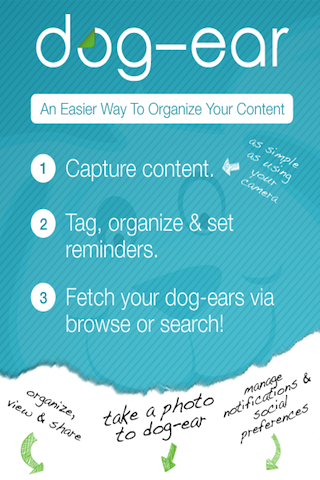
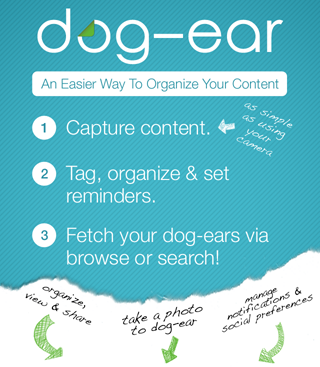
- AlertView - okay; background fix

diff --git a/DogEar/Classes/ViewControllers/de_PhotoViewController.m b/DogEar/Classes/ViewControllers/de_PhotoViewController.m
@@ -63,6 +63,8 @@ int currentAngle = 0;
 	UIImageView * ivRightUp ;
 	UIImageView * ivleftDown ;
 	UIImageView * ivRightDown;
+    
+    UILabel * autoEnhanceLabel;
 }
 //@property (nonatomic) BKToolBarType bkToolBarType;
 @property (nonatomic , retain) UIImage * photo;
@@ -169,11 +171,11 @@ int currentAngle = 0;
     {
         isAutoEnhance = NO;
         
-        UIBarButtonItem * rotateItem = [[UIBarButtonItem alloc]initWithTitle:@"Rotate" style:UIBarButtonItemStyleBordered target:self action:@selector(rotateLeft)];
+        UIBarButtonItem * rotateItem = [[UIBarButtonItem alloc]initWithImage:[UIImage imageNamed:@"dogear-icon-rotate"]  style:UIBarButtonItemStyleBordered target:self action:@selector(rotateLeft)];
         //        UIBarButtonItem * enhanceItem = [[UIBarButtonItem alloc]initWithTitle:@"Enhance" style:UIBarButtonItemStyleBordered target:self action:@selector(autoEnhance)];
-        UIBarButtonItem * enhanceItem = [[UIBarButtonItem alloc]initWithTitle:[NSString stringWithFormat:@"Ehance:%@",isAutoEnhance?@"YES":@"NO"] style:UIBarButtonItemStyleBordered target:self action:@selector(autoEnhance:)];
+        UIBarButtonItem * enhanceItem = [[UIBarButtonItem alloc]initWithImage:[UIImage imageNamed:@"dogear-icon-enhance"] style:UIBarButtonItemStyleBordered target:self action:@selector(autoEnhance:)];
         
-        UIBarButtonItem * cropItem = [[UIBarButtonItem alloc]initWithTitle:@"Crop" style:UIBarButtonItemStyleBordered target:self action:@selector(cropPhoto)];
+        UIBarButtonItem * cropItem = [[UIBarButtonItem alloc]initWithImage:[UIImage imageNamed:@"dogear-icon-crop"]  style:UIBarButtonItemStyleBordered target:self action:@selector(cropPhoto)];
         
         [toolBar setItems:[NSArray arrayWithObjects:rotateItem, spaceItme, enhanceItem, spaceItme, cropItem, nil]];
         
@@ -198,7 +200,7 @@ int currentAngle = 0;
         UIBarButtonItem * cancelItem = [[UIBarButtonItem alloc]initWithTitle:@"Back" style:UIBarButtonItemStyleBordered target:self action:@selector(backToList)];
         self.navigationItem.leftBarButtonItem = cancelItem;
         
-        UIBarButtonItem * detailItem = [[UIBarButtonItem alloc]initWithTitle:@"Detail" style:UIBarButtonItemStyleBordered target:self action:@selector(moreDetail)];
+        UIBarButtonItem * detailItem = [[UIBarButtonItem alloc]initWithTitle:@"Details" style:UIBarButtonItemStyleBordered target:self action:@selector(moreDetail)];
         self.navigationItem.rightBarButtonItem = detailItem;
         self.navigationItem.title = self.existingDogEar.title;
     }
@@ -265,8 +267,8 @@ int currentAngle = 0;
 
 - (void) backToList
 {
-//    if ([self.navigationController.viewControllers count]>3)
-//    {
+    if ([self.navigationController.viewControllers count]>=3)
+    {
         de_ListTableViewController * vc = (de_ListTableViewController*)[self.navigationController.viewControllers objectAtIndex:[self.navigationController.viewControllers count]-2];
         de_ListTableViewController * previousVc = [self.navigationController.viewControllers objectAtIndex:[self.navigationController.viewControllers count]-3];
         NSArray * array = [[NSUserDefaults standardUserDefaults]objectForKey:@"BKFlaggedItems"];
@@ -275,8 +277,10 @@ int currentAngle = 0;
         else if ([previousVc isKindOfClass:[de_FlaggedListViewController class]])
             vc.navigationItem.title = [array objectAtIndex:[self.existingDogEar.flagged integerValue]];
         [self.navigationController popToViewController:vc animated:YES];
-//    }
-//    else [self.navigationController popToRootViewControllerAnimated:YES];
+    }
+    else [self.navigationController popToRootViewControllerAnimated:YES];
+    
+    NSLog(@"%i",[self.navigationController.viewControllers count]);
 }
 
 
@@ -291,34 +295,48 @@ int currentAngle = 0;
     NSLog(@"%i",currentAngle);
 
     UIImage * newImage = [self.photo imageRotatedByDegrees:currentAngle];
-//    if (currentAngle == -90)
-//        newImage = [[UIImage alloc] initWithCGImage:self.photo.CGImage scale:1 orientation:UIImageOrientationLeft];
-//    else if (currentAngle == -180)
-//        newImage = [[UIImage alloc] initWithCGImage:self.photo.CGImage scale:1 orientation:UIImageOrientationDown];
-//    else if (currentAngle == -270)
-//        newImage = [[UIImage alloc] initWithCGImage:self.photo.CGImage scale:1 orientation:UIImageOrientationRight];
-//    else
-//        newImage = [[UIImage alloc] initWithCGImage:self.photo.CGImage scale:1 orientation:UIImageOrientationUp];
     self.photo = newImage;
 }
 
 - (void) autoEnhance:(id)sender
 {
-    UIBarButtonItem * button = (UIBarButtonItem*)sender;
+//    UIBarButtonItem * button = (UIBarButtonItem*)sender;
     if (isAutoEnhance == NO)
     {
-        UIImage * originImage = imageView.image;
-        [imageView setImage:[originImage autoEnhance]];
+//        UIImage * originImage = imageView.image;
+        [imageView setImage:[[self.photo autoEnhance]imageRotatedByDegrees:-currentAngle]];
         isAutoEnhance = YES;
     }
     else
     {
-        [imageView setImage:self.photo];
+        [imageView setImage:[self.photo imageRotatedByDegrees:-currentAngle]];
         isAutoEnhance = NO;
     }
     [imageView setNeedsDisplay];
-    button.title = [NSString stringWithFormat:@"Enhance:%@",isAutoEnhance?@"YES":@"NO"];
 
+    
+    if (!autoEnhanceLabel)
+    {
+        autoEnhanceLabel = [[UILabel alloc]initWithFrame:CGRectMake(0.0f, 0.0f, 200.0f, 20.0f)];
+        CGRect bounds = [[UIScreen mainScreen]bounds];
+        NSInteger cameraActiveBarHeight;
+        cameraActiveBarHeight = 68.0f;
+        autoEnhanceLabel.frame = CGRectOffset(autoEnhanceLabel.frame, 0.0f, bounds.size.height - cameraActiveBarHeight - IPHONE_TOOL_BAR_HEIGHT - autoEnhanceLabel.frame.size.height);
+        autoEnhanceLabel.font = [UIFont fontWithName:@"HelveticaNeue-Bold" size:12];
+        autoEnhanceLabel.backgroundColor = [UIColor clearColor];
+        autoEnhanceLabel.textColor = [UIColor whiteColor];
+        
+        [self.view addSubview:autoEnhanceLabel];
+    }
+    autoEnhanceLabel.text = [NSString stringWithFormat:@"Auton Enhance:%@",isAutoEnhance?@"On":@"Off"];
+    autoEnhanceLabel.hidden = NO;
+    
+    [NSTimer scheduledTimerWithTimeInterval:2.5f target:self selector:@selector(dismissLabel) userInfo:nil repeats:NO];
+}
+
+- (void) dismissLabel
+{
+    autoEnhanceLabel.hidden = YES;
 }
 
 /******************************************************************************************/
@@ -349,7 +367,7 @@ int currentAngle = 0;
 //	[cropView addSubview:ivleftDown];
 //	[cropView addSubview:ivRightUp];
 //	[cropView addSubview:ivRightDown];
-    
+        
     cropView = [[NLImageCropperView alloc]initWithFrame:self.view.frame];
     [self.view addSubview:cropView];
     [cropView setImage:self.photo];
@@ -628,24 +646,54 @@ int currentAngle = 0;
 
 - (void) publishDogEar
 {
-    NSMutableDictionary * params = [[NSMutableDictionary alloc]init];
-    UIImage * pngImg = [UIImage imageWithData:[NSData dataWithContentsOfFile:self.existingDogEar.imagePath]];
+    if (DEVICE_OS >= 6.0f)
+    {
+        if([SLComposeViewController isAvailableForServiceType:SLServiceTypeFacebook]) {
+            
+            SLComposeViewController *controller = [SLComposeViewController composeViewControllerForServiceType:SLServiceTypeFacebook];                
+            SLComposeViewControllerCompletionHandler block = ^(SLComposeViewControllerResult result){
+                
+                if (result == SLComposeViewControllerResultCancelled) {
+                    
+                    NSLog(@"Cancelled");
+                    
+                } else
+                    
+                {
+                    NSLog(@"Done");
+                }
+                
+                [controller dismissViewControllerAnimated:YES completion:Nil];
+            };
+            controller.completionHandler = block;
+            [controller addImage:self.photo];
+            [self presentViewController:controller animated:YES completion:Nil];
+        }
+        else
+            NSLog(@"UnAvaliable");
+        UIAlertView * alertView = [[UIAlertView alloc]initWithTitle:@"No Facebook Account" message:@"There are no Facebook accounts comfigured. You can add or create a Facebook in Settings" delegate:nil cancelButtonTitle:@"Okay" otherButtonTitles:nil];
+        [alertView show];
+    }
     
-    [params setObject:self.existingDogEar.title forKey:@"message"];
-    [params setObject:UIImagePNGRepresentation(pngImg) forKey:@"picture"];
-    
-    [FBRequestConnection startWithGraphPath:@"me/photos" parameters:params HTTPMethod:@"POST"
-                          completionHandler:^(FBRequestConnection *connection, id result, NSError *error){
-                              UIAlertView * alertView;
-                            if (error)
-                    //            NSLog(@"error");
-                                alertView = [[UIAlertView alloc]initWithTitle:@"DogEar" message:@"Oops, Error !" delegate:nil cancelButtonTitle:@"Ok" otherButtonTitles:nil];
-                            else
-                    //            NSLog(@"successful!!");
-                                alertView = [[UIAlertView alloc]initWithTitle:@"DogEar" message:@"Post Successfully " delegate:nil cancelButtonTitle:@"Ok" otherButtonTitles:nil];
-                              [alertView show];
-                            
-    }];
+    else
+    {
+        NSMutableDictionary * params = [[NSMutableDictionary alloc]init];
+        UIImage * pngImg = [UIImage imageWithData:[NSData dataWithContentsOfFile:self.existingDogEar.imagePath]];
+        
+        [params setObject:self.existingDogEar.title forKey:@"message"];
+        [params setObject:UIImagePNGRepresentation(pngImg) forKey:@"picture"];
+        
+        [FBRequestConnection startWithGraphPath:@"me/photos" parameters:params HTTPMethod:@"POST"
+                              completionHandler:^(FBRequestConnection *connection, id result, NSError *error){
+                                  UIAlertView * alertView;
+                                  if (error)
+                                      alertView = [[UIAlertView alloc]initWithTitle:@"DogEar" message:@"Oops, Error !" delegate:nil cancelButtonTitle:@"Okay" otherButtonTitles:nil];
+                                  else
+                                      alertView = [[UIAlertView alloc]initWithTitle:@"DogEar" message:@"Post Successfully " delegate:nil cancelButtonTitle:@"Okay" otherButtonTitles:nil];
+                                  [alertView show];
+                                  
+                              }];
+    }
 }
 
 #pragma mark - NSuserDefaults  Method
@@ -733,14 +781,19 @@ int currentAngle = 0;
             if (DEVICE_OS < 6.0)
             {
                 if ([[NSUserDefaults standardUserDefaults] boolForKey:@"Twitter_Account"] == YES)[self presentViewController:[twitter tweetTWComposerSheetWithSharedImage:self.photo] animated:YES completion:nil];
-                
+                else
+                {
+                    UIAlertView * alertView = [[UIAlertView alloc]initWithTitle:@"Twitter Authorization" message:@"DogEar has been disconnected to Twitter account. Turn on connection in Settings" delegate:self cancelButtonTitle:@"Okay" otherButtonTitles:@"Setting", nil];
+                    [alertView show];
+                }
+
             }
             else
             {
                 if ([[NSUserDefaults standardUserDefaults] boolForKey:@"Twitter_Account"] == YES) [self presentViewController:[twitter tweetSLComposerSheetWithSharedImage:self.photo] animated:YES completion:nil];
                 else
                 {
-                    UIAlertView * alertView = [[UIAlertView alloc]initWithTitle:@"Twitter Authorization" message:@"DogEar has been disconnected to Twitter account. Turn on connection in Settings" delegate:self cancelButtonTitle:@"OK" otherButtonTitles:@"Setting", nil];
+                    UIAlertView * alertView = [[UIAlertView alloc]initWithTitle:@"Twitter Authorization" message:@"DogEar has been disconnected to Twitter account. Turn on connection in Settings" delegate:self cancelButtonTitle:@"Okay" otherButtonTitles:@"Setting", nil];
                     [alertView show];
                 }
             }
@@ -827,7 +880,7 @@ int currentAngle = 0;
         message = @"Oops, Save To Camera Roll Failed...";
     else  // No errors
         message = @"DogEar has been saved to camera roll";
-    UIAlertView * alertView = [[UIAlertView alloc]initWithTitle:@"DogEar" message:message delegate:self cancelButtonTitle:@"Ok" otherButtonTitles: nil];
+    UIAlertView * alertView = [[UIAlertView alloc]initWithTitle:@"DogEar" message:message delegate:self cancelButtonTitle:@"Okay" otherButtonTitles: nil];
     [alertView show];
 }
 @end

diff --git a/DogEar/Classes/Objects/TwitterManager.m b/DogEar/Classes/Objects/TwitterManager.m
@@ -132,7 +132,11 @@ static TwitterManager * sharedManager = nil;
                     output = @"ACtionCancelled";
                     break;
                 case SLComposeViewControllerResultDone:
+                {
                     output = @"Post Successfully";
+                    UIAlertView * alertView = [[UIAlertView alloc]initWithTitle:@"DogEar" message:@"Post Successfully" delegate:self cancelButtonTitle:@"Okay" otherButtonTitles:nil];
+                    [alertView show];
+                }
                     break;
                 default:
                     break;
@@ -142,7 +146,8 @@ static TwitterManager * sharedManager = nil;
         [tweetSLComposerSheet addImage:image];
     }
     else{
-        NSLog(@"can't send tweet");
+        UIAlertView * alertView = [[UIAlertView alloc]initWithTitle:@"No Twitter Account" message:@"There are no Facebook accounts comfigured. You can add or create a Twitter in Settings" delegate:nil cancelButtonTitle:@"Okay" otherButtonTitles:nil];
+        [alertView show];
     }
     return tweetSLComposerSheet;
 }
@@ -155,7 +160,7 @@ static TwitterManager * sharedManager = nil;
         tweetTWComposerSheet = [[TWTweetComposeViewController alloc] init];
         [tweetTWComposerSheet addImage:image];
         [tweetTWComposerSheet setInitialText:@"DogEar"];
-        UIAlertView * alertView = [[UIAlertView alloc]initWithTitle:@"DogEar" message:@"Post Successfully" delegate:nil cancelButtonTitle:@"Ok" otherButtonTitles:nil];
+        UIAlertView * alertView = [[UIAlertView alloc]initWithTitle:@"DogEar" message:@"Post Successfully" delegate:nil cancelButtonTitle:@"Okay" otherButtonTitles:nil];
         [alertView show];
     }
     else

diff --git a/DogEar/Classes/ViewControllers/de_AccountSettingViewController.m b/DogEar/Classes/ViewControllers/de_AccountSettingViewController.m
@@ -106,15 +106,20 @@
 {
     UITableViewCell * twitterCell = [self.tableView cellForRowAtIndexPath:[NSIndexPath indexPathForRow:1 inSection:0]];
     UISwitch * twitterSwitch = (UISwitch*) twitterCell.accessoryView;
+    UIAlertView * alertview;
     if ([[NSUserDefaults standardUserDefaults] boolForKey:@"Twitter_Account"] == NO)
     {
         twitterSwitch.on = NO;
-        UIAlertView * alertview = [[UIAlertView alloc]initWithTitle:@"DogEar" message:@"Connect to Twitter account failed. You can check it in Settings." delegate:nil cancelButtonTitle:@"OK" otherButtonTitles:nil];
-        [alertview show];
+         alertview = [[UIAlertView alloc]initWithTitle:@"DogEar Warning" message:@"Ceonnect to Twitter account failed. You can check Twitter Account in Settings." delegate:nil cancelButtonTitle:@"Okay" otherButtonTitles:nil];
     }
     else
+    {
         twitterSwitch.on = YES;
+        alertview = [[UIAlertView alloc]initWithTitle:@"DogEar" message:@"Connect to Twitter account successfully." delegate:nil cancelButtonTitle:@"Okay" otherButtonTitles:nil];
+    }
+    
     [activityIndicator stopAnimating];
+    [alertview show];
 
 }
 

diff --git a/DogEar/Classes/ViewControllers/de_DetailViewController.m b/DogEar/Classes/ViewControllers/de_DetailViewController.m
@@ -173,7 +173,7 @@
     {
         if (self.dogEar.category == nil)    //JT - Comment: Necessary to select Category
         {
-            UIAlertView * alertView = [[UIAlertView alloc]initWithTitle:@"Notice" message:@"Please Select A Category (Required)" delegate:self cancelButtonTitle:@"OK" otherButtonTitles: nil];
+            UIAlertView * alertView = [[UIAlertView alloc]initWithTitle:@"Notice" message:@"Please Select A Category (Required)" delegate:self cancelButtonTitle:@"Okay" otherButtonTitles: nil];
             [alertView show];
             return;
         }
@@ -387,7 +387,7 @@
     NSLog(@"addDogEar");
     if (self.dogEar.category == nil) 
     {
-        UIAlertView * alertView = [[UIAlertView alloc]initWithTitle:@"Notice" message:@"Please Select A Category (Required)" delegate:self cancelButtonTitle:@"OK" otherButtonTitles: nil];
+        UIAlertView * alertView = [[UIAlertView alloc]initWithTitle:@"Notice" message:@"Please Select A Category (Required)" delegate:self cancelButtonTitle:@"Okay" otherButtonTitles: nil];
         [alertView show];
         return;
     }

diff --git a/DogEar/Classes/Objects/MessageManager.m b/DogEar/Classes/Objects/MessageManager.m
@@ -74,7 +74,7 @@ static MessageManager * sharedManager = nil;
 - (void) presentShareImageFromDogEarObject:(DogEarObject*)sharedObject viaMailComposerFromParent:(UIViewController *)vcParent
 {
     NSString *  bodyString = [NSString stringWithFormat:@"%@, insert Date:%@",[sharedObject title],[sharedObject insertedDate]];
-    [self presentMailComposerWithSubject:[NSString stringWithFormat:@"DogEar :%@", sharedObject.title] withBody:bodyString withAttachment:[NSData dataWithContentsOfFile:sharedObject.imagePath] withAttachmentFileName:[NSString stringWithFormat:@"%@.png",sharedObject.title] fromParentViewController:vcParent];
+    [self presentMailComposerWithSubject:[NSString stringWithFormat:@"DogEar: %@", sharedObject.title] withBody:bodyString withAttachment:[NSData dataWithContentsOfFile:sharedObject.imagePath] withAttachmentFileName:[NSString stringWithFormat:@"%@.png",sharedObject.title] fromParentViewController:vcParent];
 }
 
 - (void) presentShareImageFromDogEar:(DogEarObject*)sharedObject viaMessageComposerFromParentent:(UIViewController*)vcParent

diff --git a/DogEar/Classes/ViewControllers/de_SettingViewController.m b/DogEar/Classes/ViewControllers/de_SettingViewController.m
@@ -155,8 +155,14 @@
         float height = [self.tabBarController.view bounds].size.height;
         float width = [self.tabBarController.view bounds].size.width;
         
-        CGRect bgFrame = CGRectMake(0.0f, 0.0f, width, height - 20.0f - 44.0f - 49.0f);        
-        UIImageView *backgroundImage = [[UIImageView alloc] initWithImage:[UIImage imageNamed:@"dogear-bg-instructions-fix"]];
+        NSLog(@"%f",height);
+        UIImageView *backgroundImage ;
+        if (height >= 568.0f)
+            backgroundImage = [[UIImageView alloc] initWithImage:[UIImage imageNamed:@"dogear-bg-instructions-fix-568h"]];
+        else
+            backgroundImage = [[UIImageView alloc] initWithImage:[UIImage imageNamed:@"dogear-bg-instructions-fix-"]];
+        
+        CGRect bgFrame = CGRectMake(0.0f, 0.0f, width, height - 20.0f - 44.0f - 49.0f);
         backgroundImage.frame = bgFrame;
         [vc.view addSubview:backgroundImage];
         [vc.navigationItem setTitle:cell.textLabel.text];

diff --git a/DogEar/Classes/Objects/TwitterManager.h b/DogEar/Classes/Objects/TwitterManager.h
@@ -12,7 +12,7 @@
 #import <Twitter/Twitter.h>
 #import <Social/Social.h>
 
-@interface TwitterManager : NSObject
+@interface TwitterManager : NSObject < UIAlertViewDelegate >
 
 +(id) sharedManager;
 
